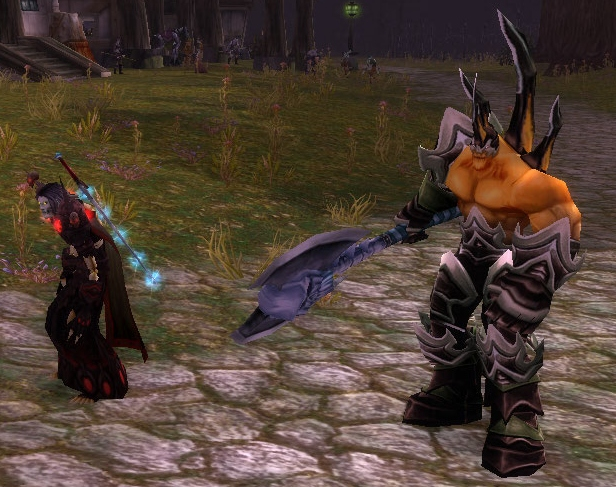
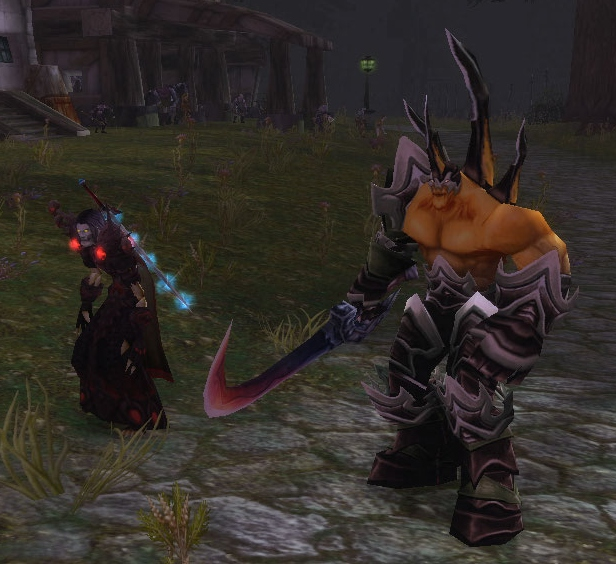
Various updates (#8)

diff --git a/src/morphsummon.cpp b/src/morphsummon.cpp
@@ -14,7 +14,9 @@
 std::map<std::string, uint32> warlock_imp;
 std::map<std::string, uint32> warlock_voidwalker;
 std::map<std::string, uint32> warlock_succubus;
+std::map<std::string, uint32> warlock_felhunter;
 std::map<std::string, uint32> warlock_felguard;
+std::map<std::string, uint32> felguard_weapon;
 std::map<std::string, uint32> death_knight_ghoul;
 std::map<std::string, uint32> mage_water_elemental;
 std::list<uint32> randomVisualEffectSpells;
@@ -29,10 +31,12 @@ enum MorphSummonGossip
     MORPH_PAGE_START_WARLOCK_IMP          =    101,
     MORPH_PAGE_START_WARLOCK_VOIDWALKER   =    201,
     MORPH_PAGE_START_WARLOCK_SUCCUBUS     =    301,
-    MORPH_PAGE_START_WARLOCK_FELGUARD     =    401,
-    MORPH_PAGE_START_DEATH_KNIGHT_GHOUL   =    501,
-    MORPH_PAGE_START_MAGE_WATER_ELEMENTAL =    601,
-    MORPH_PAGE_MAX                        =    701,
+    MORPH_PAGE_START_WARLOCK_FELHUNTER    =    401,
+    MORPH_PAGE_START_WARLOCK_FELGUARD     =    501,
+    MORPH_PAGE_START_DEATH_KNIGHT_GHOUL   =    601,
+    MORPH_PAGE_START_MAGE_WATER_ELEMENTAL =    701,
+    MORPH_PAGE_START_FELGUARD_WEAPON      =    801,
+    MORPH_PAGE_MAX                        =    901,
     MORPH_MAIN_MENU                       =     50,
     MORPH_CLOSE_MENU                      =     60,
     MORPH_GOSSIP_TEXT_HELLO               = 601072,
@@ -41,7 +45,8 @@ enum MorphSummonGossip
     MORPH_GOSSIP_MENU_HELLO               =  61072,
     MORPH_GOSSIP_MENU_SORRY               =  61073,
     MORPH_GOSSIP_MENU_CHOICE              =  61074,
-    MORPH_GOSSIP_OPTION_HELLO             =      0,
+    MORPH_GOSSIP_OPTION_POLYMORPH         =      0,
+    MORPH_GOSSIP_OPTION_FELGUARD_WEAPON   =      1,
     MORPH_GOSSIP_OPTION_SORRY             =      0,
     MORPH_GOSSIP_OPTION_CHOICE_BACK       =      0,
     MORPH_GOSSIP_OPTION_CHOICE_NEXT       =      1,
@@ -53,6 +58,7 @@ enum MorphSummonSpells
     SUMMON_IMP                            =    688,
     SUMMON_VOIDWALKER                     =    697,
     SUMMON_SUCCUBUS                       =    712,
+    SUMMON_FELHUNTER                      =    691,
     SUMMON_FELGUARD                       =  30146,
     RAISE_DEAD                            =  52150,
     SUMMON_WATER_ELEMENTAL                =  70908
@@ -82,13 +88,24 @@ public:
         }
     }
 
-    void OnPetInitStatsForLevel(Pet* pet) override
+    void OnAfterGuardianInitStatsForLevel(Player* player, Guardian* guardian) override
     {
-        if (pet->GetUInt32Value(UNIT_CREATED_BY_SPELL) == SUMMON_WATER_ELEMENTAL)
+        if (Pet* pet = guardian->ToPet())
         {
-            // The size of the water elemental model is not automatically scaled, so needs to be done here
-            CreatureDisplayInfoEntry const* displayInfo = sCreatureDisplayInfoStore.LookupEntry(pet->GetNativeDisplayId());
-            pet->SetObjectScale(0.85f / displayInfo->scale);
+            if (pet->GetUInt32Value(UNIT_CREATED_BY_SPELL) == SUMMON_WATER_ELEMENTAL)
+            {
+                // The size of the water elemental model is not automatically scaled, so needs to be done here
+                CreatureDisplayInfoEntry const* displayInfo = sCreatureDisplayInfoStore.LookupEntry(pet->GetNativeDisplayId());
+                pet->SetObjectScale(0.85f / displayInfo->scale);
+            }
+            else if (pet->GetUInt32Value(UNIT_CREATED_BY_SPELL) == SUMMON_FELGUARD)
+            {
+                if (QueryResult result = CharacterDatabase.PQuery("SELECT `FelguardItemID` FROM `mod_morphsummon_felguard_weapon` WHERE `PlayerGUIDLow` = %u", player->GetGUIDLow()))
+                {
+                    Field* fields = result->Fetch();
+                    pet->SetUInt32Value(UNIT_VIRTUAL_ITEM_SLOT_ID, fields[0].GetUInt32());
+                }
+            }
         }
     }
 };
@@ -124,9 +141,13 @@ public:
         {
             AddGossip(player, action, warlock_voidwalker, MORPH_PAGE_START_WARLOCK_VOIDWALKER);
         }
-        else if (action >= MORPH_PAGE_START_WARLOCK_SUCCUBUS && action < MORPH_PAGE_START_WARLOCK_FELGUARD)
+        else if (action >= MORPH_PAGE_START_WARLOCK_SUCCUBUS && action < MORPH_PAGE_START_WARLOCK_FELHUNTER)
         {
             AddGossip(player, action, warlock_succubus, MORPH_PAGE_START_WARLOCK_SUCCUBUS);
+        }
+        else if (action >= MORPH_PAGE_START_WARLOCK_FELHUNTER && action < MORPH_PAGE_START_WARLOCK_FELGUARD)
+        {
+            AddGossip(player, action, warlock_felhunter, MORPH_PAGE_START_WARLOCK_FELHUNTER);
         }
         else if (action >= MORPH_PAGE_START_WARLOCK_FELGUARD && action < MORPH_PAGE_START_DEATH_KNIGHT_GHOUL)
         {
@@ -136,35 +157,47 @@ public:
         {
             AddGossip(player, action, death_knight_ghoul, MORPH_PAGE_START_DEATH_KNIGHT_GHOUL);
         }
-        else if (action >= MORPH_PAGE_START_MAGE_WATER_ELEMENTAL && action < MORPH_PAGE_MAX)
+        else if (action >= MORPH_PAGE_START_MAGE_WATER_ELEMENTAL && action < MORPH_PAGE_START_FELGUARD_WEAPON)
         {
             AddGossip(player, action, mage_water_elemental, MORPH_PAGE_START_MAGE_WATER_ELEMENTAL);
+        }
+        else if (action >= MORPH_PAGE_START_FELGUARD_WEAPON && action < MORPH_PAGE_MAX)
+        {
+            AddGossip(player, action, felguard_weapon, MORPH_PAGE_START_FELGUARD_WEAPON);
         }
         else if (action >= MORPH_PAGE_MAX)
         {
             if (sender >= MORPH_PAGE_START_WARLOCK_IMP && sender < MORPH_PAGE_START_WARLOCK_VOIDWALKER)
             {
-                Polymorph(player, action, sender, MORPH_PAGE_START_WARLOCK_IMP, MORPH_PAGE_START_WARLOCK_VOIDWALKER, SUMMON_IMP, warlock_imp);
+                Polymorph(player, action, sender, MORPH_PAGE_START_WARLOCK_IMP, MORPH_PAGE_START_WARLOCK_VOIDWALKER, SUMMON_IMP, warlock_imp, true);
             }
             else if (sender >= MORPH_PAGE_START_WARLOCK_VOIDWALKER && sender < MORPH_PAGE_START_WARLOCK_SUCCUBUS)
             {
-                Polymorph(player, action, sender, MORPH_PAGE_START_WARLOCK_VOIDWALKER, MORPH_PAGE_START_WARLOCK_SUCCUBUS, SUMMON_VOIDWALKER, warlock_voidwalker);
+                Polymorph(player, action, sender, MORPH_PAGE_START_WARLOCK_VOIDWALKER, MORPH_PAGE_START_WARLOCK_SUCCUBUS, SUMMON_VOIDWALKER, warlock_voidwalker, true);
             }
-            else if (sender >= MORPH_PAGE_START_WARLOCK_SUCCUBUS && sender < MORPH_PAGE_START_WARLOCK_FELGUARD)
+            else if (sender >= MORPH_PAGE_START_WARLOCK_SUCCUBUS && sender < MORPH_PAGE_START_WARLOCK_FELHUNTER)
             {
-                Polymorph(player, action, sender, MORPH_PAGE_START_WARLOCK_SUCCUBUS, MORPH_PAGE_START_WARLOCK_FELGUARD, SUMMON_SUCCUBUS, warlock_succubus);
+                Polymorph(player, action, sender, MORPH_PAGE_START_WARLOCK_SUCCUBUS, MORPH_PAGE_START_WARLOCK_FELHUNTER, SUMMON_SUCCUBUS, warlock_succubus, true);
+            }
+            else if (sender >= MORPH_PAGE_START_WARLOCK_FELHUNTER && sender < MORPH_PAGE_START_WARLOCK_FELGUARD)
+            {
+                Polymorph(player, action, sender, MORPH_PAGE_START_WARLOCK_FELHUNTER, MORPH_PAGE_START_WARLOCK_FELGUARD, SUMMON_FELHUNTER, warlock_felhunter, true);
             }
             else if (sender >= MORPH_PAGE_START_WARLOCK_FELGUARD && sender < MORPH_PAGE_START_DEATH_KNIGHT_GHOUL)
             {
-                Polymorph(player, action, sender, MORPH_PAGE_START_WARLOCK_FELGUARD, MORPH_PAGE_START_DEATH_KNIGHT_GHOUL, SUMMON_FELGUARD, warlock_felguard);
+                Polymorph(player, action, sender, MORPH_PAGE_START_WARLOCK_FELGUARD, MORPH_PAGE_START_DEATH_KNIGHT_GHOUL, SUMMON_FELGUARD, warlock_felguard, true);
             }
             else if (sender >= MORPH_PAGE_START_DEATH_KNIGHT_GHOUL && sender < MORPH_PAGE_START_MAGE_WATER_ELEMENTAL)
             {
-                Polymorph(player, action, sender, MORPH_PAGE_START_DEATH_KNIGHT_GHOUL, MORPH_PAGE_START_MAGE_WATER_ELEMENTAL, RAISE_DEAD, death_knight_ghoul);
+                Polymorph(player, action, sender, MORPH_PAGE_START_DEATH_KNIGHT_GHOUL, MORPH_PAGE_START_MAGE_WATER_ELEMENTAL, RAISE_DEAD, death_knight_ghoul, true);
             }
-            else if (sender >= MORPH_PAGE_START_MAGE_WATER_ELEMENTAL && sender < MORPH_PAGE_MAX)
+            else if (sender >= MORPH_PAGE_START_MAGE_WATER_ELEMENTAL && sender < MORPH_PAGE_START_FELGUARD_WEAPON)
             {
-                Polymorph(player, action, sender, MORPH_PAGE_START_MAGE_WATER_ELEMENTAL, MORPH_PAGE_MAX, SUMMON_WATER_ELEMENTAL, mage_water_elemental);
+                Polymorph(player, action, sender, MORPH_PAGE_START_MAGE_WATER_ELEMENTAL, MORPH_PAGE_START_FELGUARD_WEAPON, SUMMON_WATER_ELEMENTAL, mage_water_elemental, true);
+            }
+            else if (sender >= MORPH_PAGE_START_FELGUARD_WEAPON && sender < MORPH_PAGE_MAX)
+            {
+                Polymorph(player, action, sender, MORPH_PAGE_START_FELGUARD_WEAPON, MORPH_PAGE_MAX, SUMMON_FELGUARD, felguard_weapon, false);
             }
         }
 
@@ -227,37 +260,54 @@ private:
             {
                 case SUMMON_IMP:
                     if (!warlock_imp.empty())
-                        AddGossipItemFor(player, MORPH_GOSSIP_MENU_HELLO, MORPH_GOSSIP_OPTION_HELLO, GOSSIP_SENDER_MAIN, MORPH_PAGE_START_WARLOCK_IMP);
+                        AddGossipItemFor(player, MORPH_GOSSIP_MENU_HELLO, MORPH_GOSSIP_OPTION_POLYMORPH, GOSSIP_SENDER_MAIN, MORPH_PAGE_START_WARLOCK_IMP);
                     else
                         sorry = true;
                     break;
                 case SUMMON_VOIDWALKER:
                     if (!warlock_voidwalker.empty())
-                        AddGossipItemFor(player, MORPH_GOSSIP_MENU_HELLO, MORPH_GOSSIP_OPTION_HELLO, GOSSIP_SENDER_MAIN, MORPH_PAGE_START_WARLOCK_VOIDWALKER);
+                        AddGossipItemFor(player, MORPH_GOSSIP_MENU_HELLO, MORPH_GOSSIP_OPTION_POLYMORPH, GOSSIP_SENDER_MAIN, MORPH_PAGE_START_WARLOCK_VOIDWALKER);
                     else
                         sorry = true;
                     break;
                 case SUMMON_SUCCUBUS:
                     if (!warlock_succubus.empty())
-                        AddGossipItemFor(player, MORPH_GOSSIP_MENU_HELLO, MORPH_GOSSIP_OPTION_HELLO, GOSSIP_SENDER_MAIN, MORPH_PAGE_START_WARLOCK_SUCCUBUS);
+                        AddGossipItemFor(player, MORPH_GOSSIP_MENU_HELLO, MORPH_GOSSIP_OPTION_POLYMORPH, GOSSIP_SENDER_MAIN, MORPH_PAGE_START_WARLOCK_SUCCUBUS);
+                    else
+                        sorry = true;
+                    break;
+                case SUMMON_FELHUNTER:
+                    if (!warlock_felhunter.empty())
+                        AddGossipItemFor(player, MORPH_GOSSIP_MENU_HELLO, MORPH_GOSSIP_OPTION_POLYMORPH, GOSSIP_SENDER_MAIN, MORPH_PAGE_START_WARLOCK_FELHUNTER);
                     else
                         sorry = true;
                     break;
                 case SUMMON_FELGUARD:
                     if (!warlock_felguard.empty())
-                        AddGossipItemFor(player, MORPH_GOSSIP_MENU_HELLO, MORPH_GOSSIP_OPTION_HELLO, GOSSIP_SENDER_MAIN, MORPH_PAGE_START_WARLOCK_FELGUARD);
+                    {
+                        AddGossipItemFor(player, MORPH_GOSSIP_MENU_HELLO, MORPH_GOSSIP_OPTION_POLYMORPH, GOSSIP_SENDER_MAIN, MORPH_PAGE_START_WARLOCK_FELGUARD);
+
+                        if (!felguard_weapon.empty())
+                        {
+                            AddGossipItemFor(player, MORPH_GOSSIP_MENU_HELLO, MORPH_GOSSIP_OPTION_FELGUARD_WEAPON, GOSSIP_SENDER_MAIN, MORPH_PAGE_START_FELGUARD_WEAPON);
+                        }
+                    }
+                    else if (!felguard_weapon.empty())
+                    {
+                        AddGossipItemFor(player, MORPH_GOSSIP_MENU_HELLO, MORPH_GOSSIP_OPTION_FELGUARD_WEAPON, GOSSIP_SENDER_MAIN, MORPH_PAGE_START_FELGUARD_WEAPON);
+                    }
                     else
                         sorry = true;
                     break;
                 case RAISE_DEAD:
                     if (!death_knight_ghoul.empty())
-                        AddGossipItemFor(player, MORPH_GOSSIP_MENU_HELLO, MORPH_GOSSIP_OPTION_HELLO, GOSSIP_SENDER_MAIN, MORPH_PAGE_START_DEATH_KNIGHT_GHOUL);
+                        AddGossipItemFor(player, MORPH_GOSSIP_MENU_HELLO, MORPH_GOSSIP_OPTION_POLYMORPH, GOSSIP_SENDER_MAIN, MORPH_PAGE_START_DEATH_KNIGHT_GHOUL);
                     else
                         sorry = true;
                     break;
                 case SUMMON_WATER_ELEMENTAL:
                     if (!mage_water_elemental.empty())
-                        AddGossipItemFor(player, MORPH_GOSSIP_MENU_HELLO, MORPH_GOSSIP_OPTION_HELLO, GOSSIP_SENDER_MAIN, MORPH_PAGE_START_MAGE_WATER_ELEMENTAL);
+                        AddGossipItemFor(player, MORPH_GOSSIP_MENU_HELLO, MORPH_GOSSIP_OPTION_POLYMORPH, GOSSIP_SENDER_MAIN, MORPH_PAGE_START_MAGE_WATER_ELEMENTAL);
                     else
                         sorry = true;
                     break;
@@ -304,7 +354,7 @@ private:
         }
     }
 
-    void Polymorph(Player* player, uint32 action, uint32 sender, uint32 startPage, uint32 maxPage, uint32 spell, std::map<std::string, uint32> &modelMap)
+    void Polymorph(Player* player, uint32 action, uint32 sender, uint32 startPage, uint32 maxPage, uint32 spell, std::map<std::string, uint32> &modelMap, bool polymorphPet)
     {
         if (Pet* pet = player->GetPet())
         {
@@ -312,19 +362,29 @@ private:
             {
                 if (pet->GetUInt32Value(UNIT_CREATED_BY_SPELL) == spell)
                 {
-                    pet->SetDisplayId(action - MORPH_PAGE_MAX);
-                    pet->SetNativeDisplayId(action - MORPH_PAGE_MAX);
+                    uint32 morphId = action - MORPH_PAGE_MAX;
 
-                    if (pet->GetUInt32Value(UNIT_CREATED_BY_SPELL) == SUMMON_WATER_ELEMENTAL)
+                    if (polymorphPet)
                     {
-                        // The size of the water elemental model is not automatically scaled, so needs to be done here
-                        CreatureDisplayInfoEntry const* displayInfo = sCreatureDisplayInfoStore.LookupEntry(pet->GetNativeDisplayId());
-                        pet->SetObjectScale(0.85f / displayInfo->scale);
-                    }
+                        pet->SetDisplayId(morphId);
+                        pet->SetNativeDisplayId(morphId);
 
-                    if (Aura* aura = pet->AddAura(SUBMERGE, pet))
-                        aura->SetDuration(2000);
-                    pet->CastSpell(pet, SHADOW_SUMMON_VISUAL, true);
+                        if (pet->GetUInt32Value(UNIT_CREATED_BY_SPELL) == SUMMON_WATER_ELEMENTAL)
+                        {
+                            // The size of the water elemental model is not automatically scaled, so needs to be done here
+                            CreatureDisplayInfoEntry const* displayInfo = sCreatureDisplayInfoStore.LookupEntry(pet->GetNativeDisplayId());
+                            pet->SetObjectScale(0.85f / displayInfo->scale);
+                        }
+
+                        if (Aura* aura = pet->AddAura(SUBMERGE, pet))
+                            aura->SetDuration(2000);
+                        pet->CastSpell(pet, SHADOW_SUMMON_VISUAL, true);
+                    }
+                    else
+                    {
+                        pet->SetUInt32Value(UNIT_VIRTUAL_ITEM_SLOT_ID, morphId);
+                        CharacterDatabase.PExecute("REPLACE INTO `mod_morphsummon_felguard_weapon` (`PlayerGUIDLow`, `FelguardItemID`) VALUES (%u, %u)", player->GetGUIDLow(), morphId);
+                    }
                 }
             }
 
@@ -369,14 +429,18 @@ public:
         warlock_imp.clear();
         warlock_voidwalker.clear();
         warlock_succubus.clear();
+        warlock_felhunter.clear();
         warlock_felguard.clear();
+        felguard_weapon.clear();
         death_knight_ghoul.clear();
         mage_water_elemental.clear();
 
         LoadModels(sConfigMgr->GetStringDefault("MorphSummon.Warlock.Imp", ""), warlock_imp);
         LoadModels(sConfigMgr->GetStringDefault("MorphSummon.Warlock.Voidwalker", ""), warlock_voidwalker);
         LoadModels(sConfigMgr->GetStringDefault("MorphSummon.Warlock.Succubus", ""), warlock_succubus);
+        LoadModels(sConfigMgr->GetStringDefault("MorphSummon.Warlock.Felhunter", ""), warlock_felhunter);
         LoadModels(sConfigMgr->GetStringDefault("MorphSummon.Warlock.Felguard", ""), warlock_felguard);
+        LoadModels(sConfigMgr->GetStringDefault("MorphSummon.Warlock.Felguard.Weapon", ""), felguard_weapon);
         LoadModels(sConfigMgr->GetStringDefault("MorphSummon.DeathKnight.Ghoul", ""), death_knight_ghoul);
         LoadModels(sConfigMgr->GetStringDefault("MorphSummon.Mage.WaterElemental", ""), mage_water_elemental);
     }

diff --git a/README.md b/README.md
@@ -8,14 +8,12 @@ Latest build status with azerothcore: [![Build Status](https://travis-ci.org/aze
 
 ## Important notes
 
-You have to use at least this AzerothCore commit:
-
-[dd81c21](https://github.com/azerothcore/azerothcore-wotlk/commit/dd81c219680db16172bfdfe4684f64a58a23eeb1)
+You have to use at least AzerothCore commit [3f0739f](https://github.com/azerothcore/azerothcore-wotlk/commit/3f0739f1c9a5289444ff9d62834b7ceb38879ba9).
 
 
 ## Description
 
-This module allows Warlocks, Death Knights and Mages to alter the appearance of their summoned permanent creatures. The appropriate model IDs can be specified in the configuration file.
+This module allows Warlocks, Death Knights and Mages to alter the appearance of their summoned permanent creatures (incl. the Felguard's weapon). The appropriate model / item IDs can be specified in the configuration file.
 
 
 ## How to use ingame
@@ -62,6 +60,7 @@ Without DB Assembler:
 ```
 cd <ACdir>
 mysql -P <DBport> -u <DPuser> --password=<DBpassword> world <modules/mod-morphsummon/data/sql/db-world/morphsummon.sql
+mysql -P <DBport> -u <DPuser> --password=<DBpassword> characters <modules/mod-morphsummon/data/sql/db-characters/morphsummon_ddl.sql
 ```
 
 
